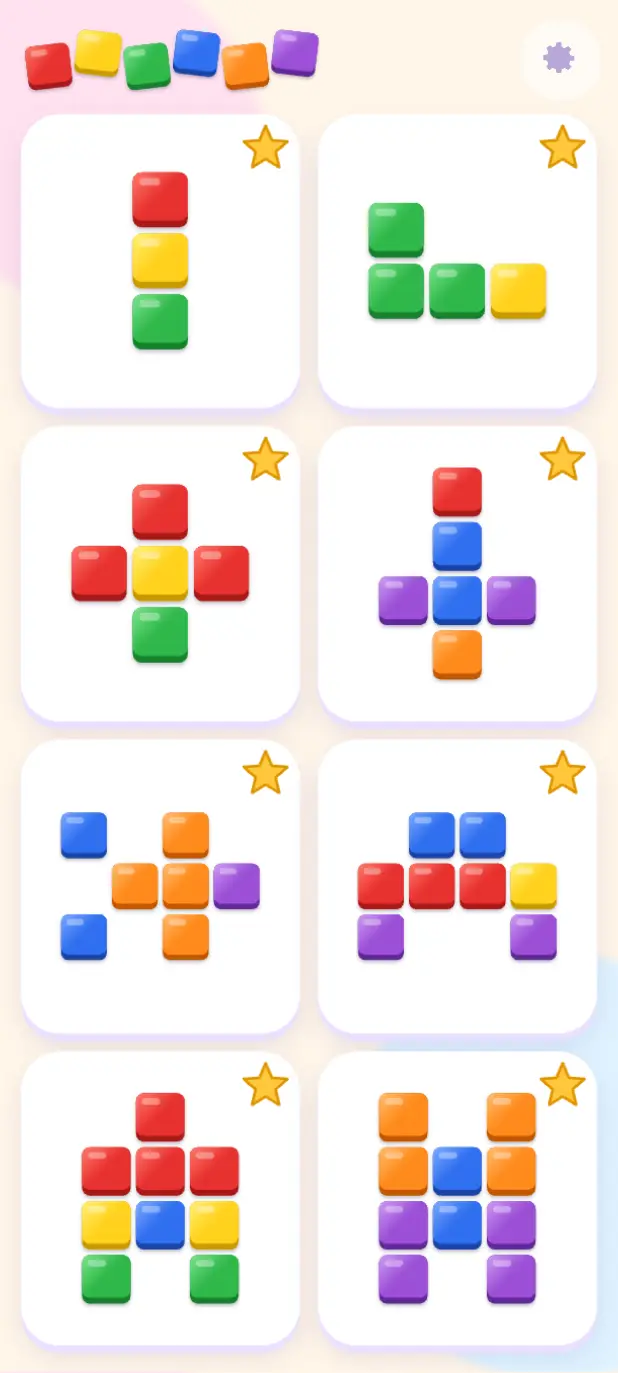
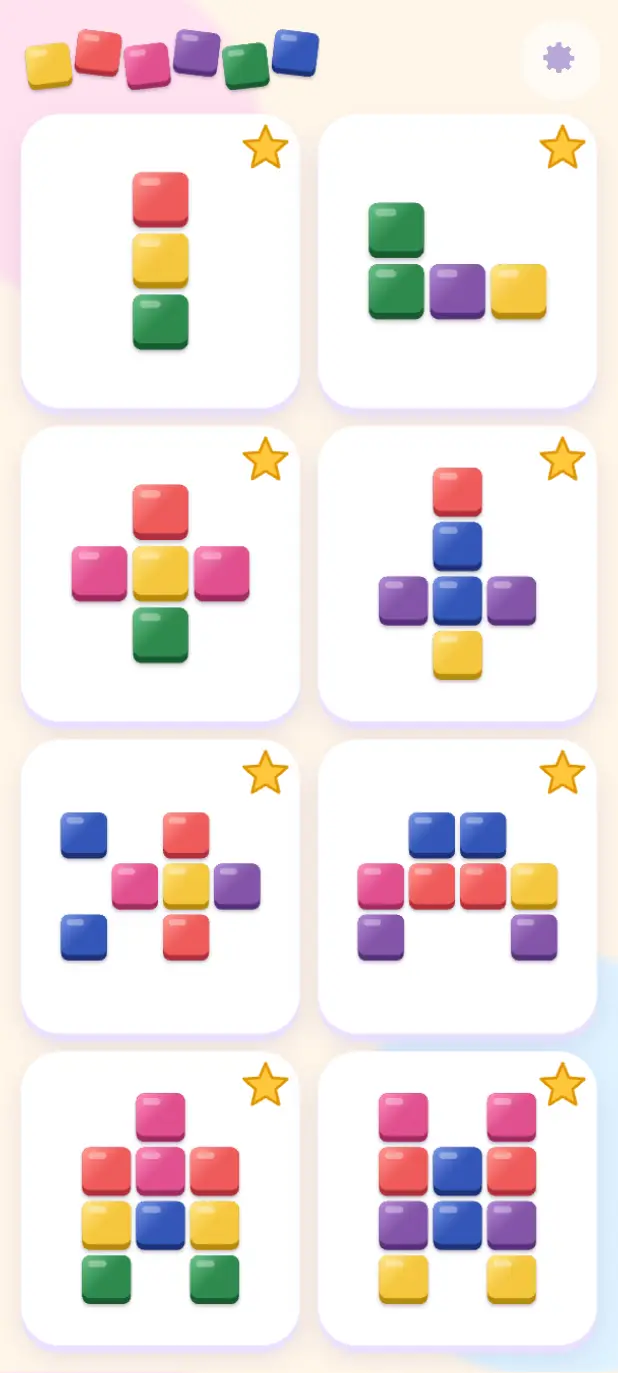
cube-picture: FIELD-001 done — app/anim on new palette, README, e2e 51/51, studio docs

diff --git a/games/cube-picture/src/app.js b/games/cube-picture/src/app.js
@@ -1,5 +1,5 @@
 // «Кубик-картинка»: образец → сборка из настоящих кубиков → фото → проверка → оживление.
-import { PALETTE, PICTURES, grid } from './pictures.js';
+import { PALETTE, PICTURES, PLAY_COLORS, grid } from './pictures.js';
 import { analyze } from './vision.js';
 import { drawPicture, drawInventory, drawCube, layoutPicture, roundRect, star } from './draw.js';
 import { drawAnimation, drawConfetti } from './anim.js';
@@ -79,7 +79,7 @@ document.querySelectorAll('[data-go]').forEach((b) =>
 function renderLogo() {
   const { ctx, W, H } = fitCanvas($('logo'));
   ctx.clearRect(0, 0, W, H);
-  const keys = ['R', 'Y', 'G', 'B', 'O', 'P'];
+  const keys = PLAY_COLORS;
   const s = Math.min(H * 0.62, W / 7.5);
   keys.forEach((k, i) => drawCube(ctx, s * 0.7 + i * s * 1.12, H / 2 + (i % 2 ? -s * 0.15 : s * 0.15), s, k, { rot: (i % 2 ? 1 : -1) * 0.12 }));
 }

diff --git a/games/cube-picture/src/anim.js b/games/cube-picture/src/anim.js
@@ -315,7 +315,8 @@ function rocket(ctx, W, H, t, picture) {
   roundRect(ctx, W * 0.3, padY, W * 0.4, H * 0.03, 6);
   ctx.fill();
   const shake = cyc < 1.4 && ta > 0 ? Math.sin(t * 60) * L.pitch * 0.04 * (cyc / 1.4) : 0;
-  const flame = cubes.find((c) => c.key === 'O');
+  // Огонь — самый нижний кубик (сопло ракеты), какого бы он ни был цвета.
+  const flame = cubes.reduce((a, c) => (c.r > a.r ? c : a), cubes[0]);
   // Дым и огонь.
   if (flame && ta > 0) {
     const [fx, fy0] = L.at(flame.r, flame.c);

diff --git a/games/cube-picture/README.md b/games/cube-picture/README.md
@@ -36,39 +36,59 @@ GitHub Pages подходит).
 | 7 | домик | 9 | день → ночь, окна загораются, дым из трубы, травка качается |
 | 8 | бабочка | 10 | машет крыльями и летает восьмёркой, след из искорок |
 
-Не больше 4 кубиков одного цвета на картинку.
+Не больше **2 кубиков одного цвета** на картинку (в наборе 2–3 кубика каждого цвета).
+В сумме для всех картинок хватит 6 цветов: жёлтый, красный, розовый, фиолетовый, зелёный, тёмно-синий.
 
 ## Палитра
 
-По умолчанию: красный, оранжевый, жёлтый, зелёный, синий, фиолетовый — `src/pictures.js` → `PALETTE`.
-`hue` — оттенок (0–360), как его видит камера; необязательный `sat` (0–1) нужен, чтобы различать
-близкие оттенки (например, розовый и красный). Чтобы добавить цвет — добавить запись в `PALETTE`
-с новой буквой и использовать её в `rows` картинок. В тестах уже проверен вариант с розовым.
+Настроена по фото настоящих кубиков (`src/pictures.js` → `PALETTE`), экран калибровки не нужен:
+
+| Буква | Цвет | Как видит камера (отн. серого листа) |
+|---|---|---|
+| `Y` | жёлтый | 1.15 · 0.88 · 0.39 |
+| `R` | красный | 1.12 · 0.54 · 0.60 |
+| `K` | розовый | 0.97 · 0.48 · 0.67 |
+| `P` | фиолетовый | 0.61 · 0.46 · 0.65 |
+| `G` | зелёный (тёмный) | 0.40 · 0.52 · 0.47 |
+| `B` | тёмно-синий | 0.30 · 0.37 · 0.62 |
+| `C`, `L` | голубой, сиреневый — **ловушки** | есть в наборе, но в картинках не используются |
+
+`rel` — цвет кубика, делённый на цвет фона (R·G·B). Цвета-«ловушки» нужны, чтобы голубой не засчитывался
+за синий, а сиреневый — за фиолетовый: такие пары почти совпадают по оттенку и различаются светлотой.
+Чтобы перенастроить под другие кубики: сфотографировать их сверху на сером/белом листе, взять медиану
+цвета каждого кубика, поделить на медиану листа и записать в `rel`.
 
 ## Как работает проверка (`src/vision.js`)
 
 Без ML и без сети, ~10 мс на снимок:
 
 1. Кадр «рамка + поле 14%» уменьшается до 160 px (усреднение = шумоподавление).
-2. Фон = медиана цвета по краю кадра; при светлом фоне выравнивается баланс белого (тёплая лампа).
-3. Пиксель — кубик, если заметно отличается от фона, насыщен и не тёмный; цвет — ближайший в палитре.
-4. Связные области: выкидываются крошки и всё, что касается края кадра (рука, игрушки).
-5. Наклон раскладки — по направлениям краёв кубиков (усреднение `cos 4θ, sin 4θ` градиента).
-6. Рамка кубиков делится на сетку картинки в 4 поворотах; в центре каждой клетки голосование за цвет.
-7. Выбирается поворот с наименьшим числом ошибок; засчитывается только полное совпадение.
+2. Фон = медиана цвета по краю кадра; каждый пиксель делится на фон (баланс белого и экспозиция).
+3. Пиксель — кандидат в кубик, если заметно отличается от фона и либо окрашен, либо заметно темнее
+   фона (тёмно-зелёный почти серый).
+4. Цвет — ближайший эталон по цветности; затем по уверенным пикселям оценивается общая светлота
+   сцены (белая бумага ярче серой ткани), и второй проход добавляет светлоту — так отличаются
+   синий/голубой и фиолетовый/сиреневый.
+5. Связные области **по каждому цвету отдельно**: выкидываются крошки и всё, что касается края
+   кадра (рука, складка листа), — не утаскивая за собой кубики.
+6. Наклон раскладки — по направлениям краёв кубиков (усреднение `cos 4θ, sin 4θ` градиента).
+7. Рамка кубиков делится на сетку картинки в 4 поворотах; в центре каждой клетки голосование за цвет.
+8. Выбирается поворот с наименьшим числом ошибок; засчитывается только полное совпадение.
 
 ## Проверки
 
 ```bash
-node games/cube-picture/tests/vision.test.mjs   # 467 проверок распознавания на синтетических фото
+node games/cube-picture/tests/vision.test.mjs   # 577 проверок: синтетика + текстуры реальных кубиков
 python3 -m http.server 8899 &                   # из корня репозитория
 node games/cube-picture/tests/e2e.mjs           # headless Chromium (см. references/headless-browser-setup.md)
 ```
 
 `vision.test.mjs` для каждой картинки: верная сборка (прямо, повороты 90/180/270, наклон до 35°,
-деревянный стол, серый стол, тёплый/холодный свет, шум, мелкие кубики, неаккуратная раскладка
+белая бумага, серый стол, кубики ярче/темнее, настоящие текстуры кубиков с фото (`tests/fixtures-real-cubes.png`)
+прямо/с наклоном/с ярким и тёплым светом, тёплый/холодный свет, шум, мелкие кубики, неаккуратная раскладка
 с зазорами, съёмка под углом, рука у края, крошка, «всё сразу»), каждый кубик по очереди другого
-цвета (ошибка должна указываться ровно в этой клетке), убран, белый; лишний кубик; пустой стол;
+цвета (ошибка должна указываться ровно в этой клетке), убран, белый; голубой вместо синего
+и сиреневый вместо фиолетового не засчитываются; лишний кубик; пустой стол;
 ни одна картинка не засчитывается за другую.
 
 `e2e.mjs` — фейковая камера Chromium показывает видео со сборкой: живой предпросмотр узнаёт её,
@@ -80,7 +100,8 @@ node games/cube-picture/tests/e2e.mjs           # headless Chromium (см. refer
 ## Ограничения
 
 - Кубики должны лежать плоско одним слоем; башни/LEGO не поддерживаются.
-- Белые/чёрные/коричневые кубики пока не распознаются (не входят в палитру); пёстрый фон
-  (узорная скатерть) мешает — нужен однотонный.
-- Проверено на синтетических снимках и фейковой камере; на реальном телефоне с реальными кубиками
-  ещё не проверялось — палитра подстроится после фото кубиков.
+- Нужен **светлый нейтральный** однотонный фон (белая бумага, серый лист). Деревянный/цветной стол
+  сдвигает цвета (красный уходит в розовый) — не поддерживается; пёстрая скатерть мешает.
+- Белые/чёрные/коричневые кубики не распознаются (не входят в палитру).
+- Палитра проверена на текстурах с реального фото кубиков и синтетике; живой прогон на телефоне
+  с камерой ещё не делался.

diff --git a/games/cube-picture/.studio/decisions.md b/games/cube-picture/.studio/decisions.md
@@ -17,3 +17,12 @@ Append decisions in this format:
 - Палитра: пользователь пришлёт фото; до этого — настраиваемая палитра по умолчанию из 6 цветов.
 - Stage 2: approve-lean — 8 картинок, без голосовых фраз, только синтезированные звуки.
 - Технически: build-free ES-модули + Canvas (как tilt-ball-maze); проверка сборки — эвристика на пикселях (фон по краям кадра, насыщенность, оттенок, сетка по bounding box, 4 поворота), без ML-зависимостей.
+
+## 2026-10-31 — палитра по фото реальных кубиков (FIELD-001)
+
+- **Decision:** 6 цветов Y/R/K(розовый)/P/G/B, не больше 2 кубиков одного цвета на картинку; голубой (C) и сиреневый (L) — цвета-«ловушки» в палитре, в картинках не используются; без экрана калибровки. Классификатор: деление на цвет фона → цветность + log-светлота с поправкой на общую светлоту сцены (два прохода); тёмные почти серые пиксели — тоже кандидаты; связные области по каждому цвету.
+- **Alternatives:** оттенок/насыщенность HSV (не различает розовый/красный и считает тёмно-зелёный фоном); экран калибровки (пользователь отказался); 8 цветов (пользователь выбрал 6).
+- **Reason:** у набора зелёный и фиолетовый почти серые, пары синий/голубой и фиолетовый/сиреневый совпадают по цветности и различаются только светлотой, которая зависит от фона — общий множитель оценивается по сцене.
+- **Affected artifacts:** src/pictures.js, src/vision.js, src/anim.js (огонь ракеты = нижний кубик), src/app.js (логотип = PLAY_COLORS), tests/*, README.md.
+- **Evidence or user answer:** ответы: «2–3 каждого», «6 цветов», «без калибровки»; vision 577/577 (вкл. текстуры с фото), e2e.
+- Деревянный/цветной стол больше не поддерживается: нормализация по фону уводит красный в розовый. Требование — светлый нейтральный фон.

diff --git a/games/cube-picture/.studio/handoffs/2026-10-31-palette.md b/games/cube-picture/.studio/handoffs/2026-10-31-palette.md
@@ -1,0 +1,25 @@
+# Handoff 2026-10-31 — палитра по фото реальных кубиков (FIELD-001)
+
+## Сделано
+- `src/pictures.js`: палитра по фото пользователя — Y жёлтый, R красный, K розовый, P фиолетовый, G зелёный,
+  B тёмно-синий (`rel` = цвет кубика / цвет серого листа); C голубой и L сиреневый — `decoy:true`
+  (распознаются, чтобы не засчитывать их за B/P, в картинках не используются). `PLAY_COLORS`, `MAX_PER_COLOR = 2`.
+  8 картинок перерисованы под 6 цветов, ≤2 кубика каждого цвета.
+- `src/vision.js`: деление на фон → цветность; первый проход оценивает общий сдвиг log-светлоты сцены
+  (медиана по уверенным пикселям), второй добавляет светлоту (lumScale 0.2); тёмные почти серые пиксели
+  (y < darkY 0.55) — тоже кандидаты; связные области по каждому цвету отдельно.
+- `src/anim.js`: огонь ракеты — нижний кубик; `src/app.js`: логотип из `PLAY_COLORS`.
+- Тесты: `tests/png.mjs` (декодер PNG), `tests/fixtures-real-cubes.png` (80×80 вырезки Y,R,K,P,G,B,C,L,фон с фото);
+  сцены с реальными текстурами, «ловушки» C/L, яркость ×1.4/×0.75. Деревянный стол убран (не поддерживается).
+
+## Проверено (команды)
+- `node games/cube-picture/tests/vision.test.mjs` → 577 passed, 0 failed (порог darkY устойчив в 0.5–0.65).
+- `python3 -m http.server 8899` + `node games/cube-picture/tests/e2e.mjs` → 51 passed, скриншоты обновлены.
+- `python3 -m unittest discover -s tests` → OK; `validate_project.py --self-test` → passed.
+
+## Не проверено / ограничения
+- Живая камера телефона с реальными кубиками (FIELD-002, blocked — нужен прогон у пользователя).
+- Нужен светлый нейтральный фон; деревянный/цветной стол сдвигает красный в розовый.
+
+## Следующая задача
+FIELD-002: пользователь пробует на телефоне; при промахах — прислать снимок, вырезать патчи в фикстуру и добавить сцену в тесты.

diff --git a/games/cube-picture/.studio/lessons.md b/games/cube-picture/.studio/lessons.md
@@ -19,3 +19,10 @@ Record only evidence-backed lessons.
 - `roundRect`-хелпер с `beginPath()` внутри ломает составные пути (evenodd-маска). Для «дырки» в затемнении — destination-out.
 - Фейковая камера Chromium: `--use-file-for-fake-video-capture=file.y4m` (YUV4MPEG2 C420jpeg) позволяет e2e реального пути камеры.
 - В замороженном кадре теста не перерисовывать canvas в RAF — software-рендер при DPR 2 замедлял прогон в разы.
+- Реальная палитра детских кубиков: часть цветов почти серая (тёмно-зелёный s≈0.06). HSV-порог насыщенности
+  выкидывает их как фон; работает «цвет / цвет фона» + цветность + «заметно темнее фона».
+- Абсолютная светлота кубика зависит от фона (белая бумага в ~1.6 раза ярче серой ткани) — нельзя сравнивать
+  с эталоном напрямую. Оценить общий сдвиг log-светлоты по уверенным пикселям (медиана) и сравнивать после поправки.
+- Связные области по всем цветам сразу: складка листа у края кадра «склеивается» с кубиками и всё выкидывается
+  как касающееся края. Считать компоненты по каждому цвету.
+- Тестовые фикстуры из реального фото: 80×80 вырезки в PNG + свой декодер PNG на zlib — без зависимостей.
